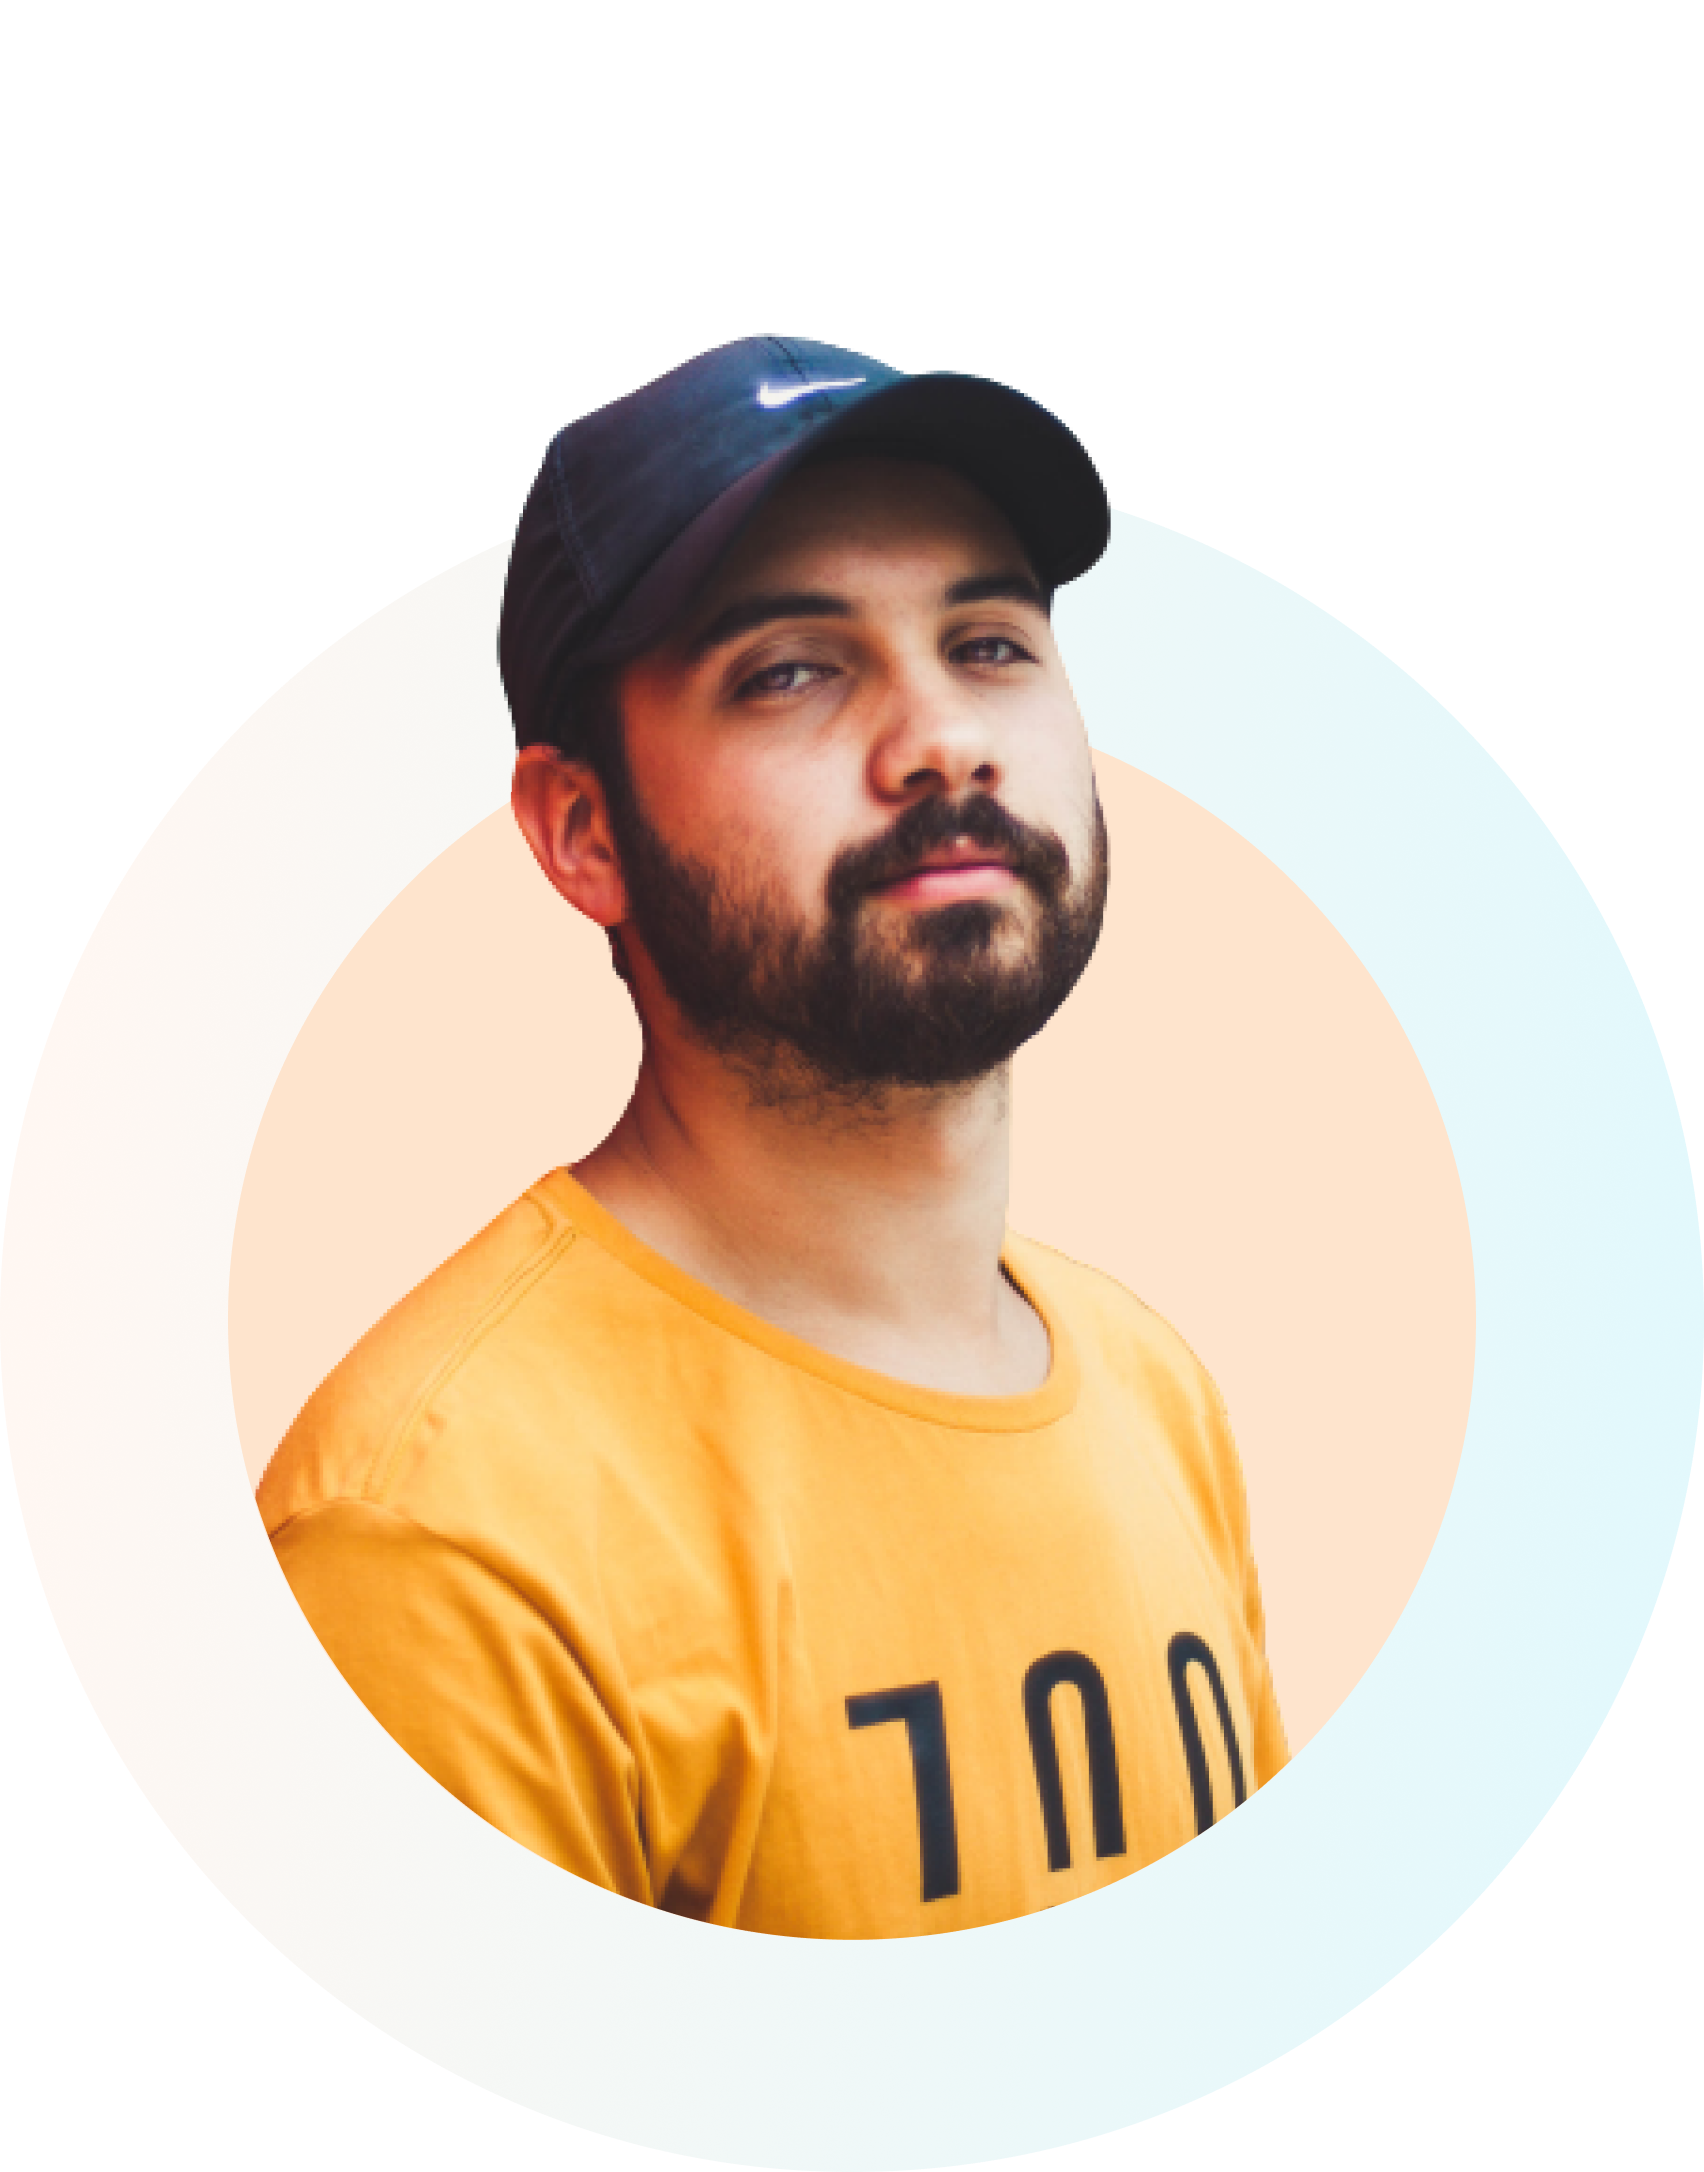
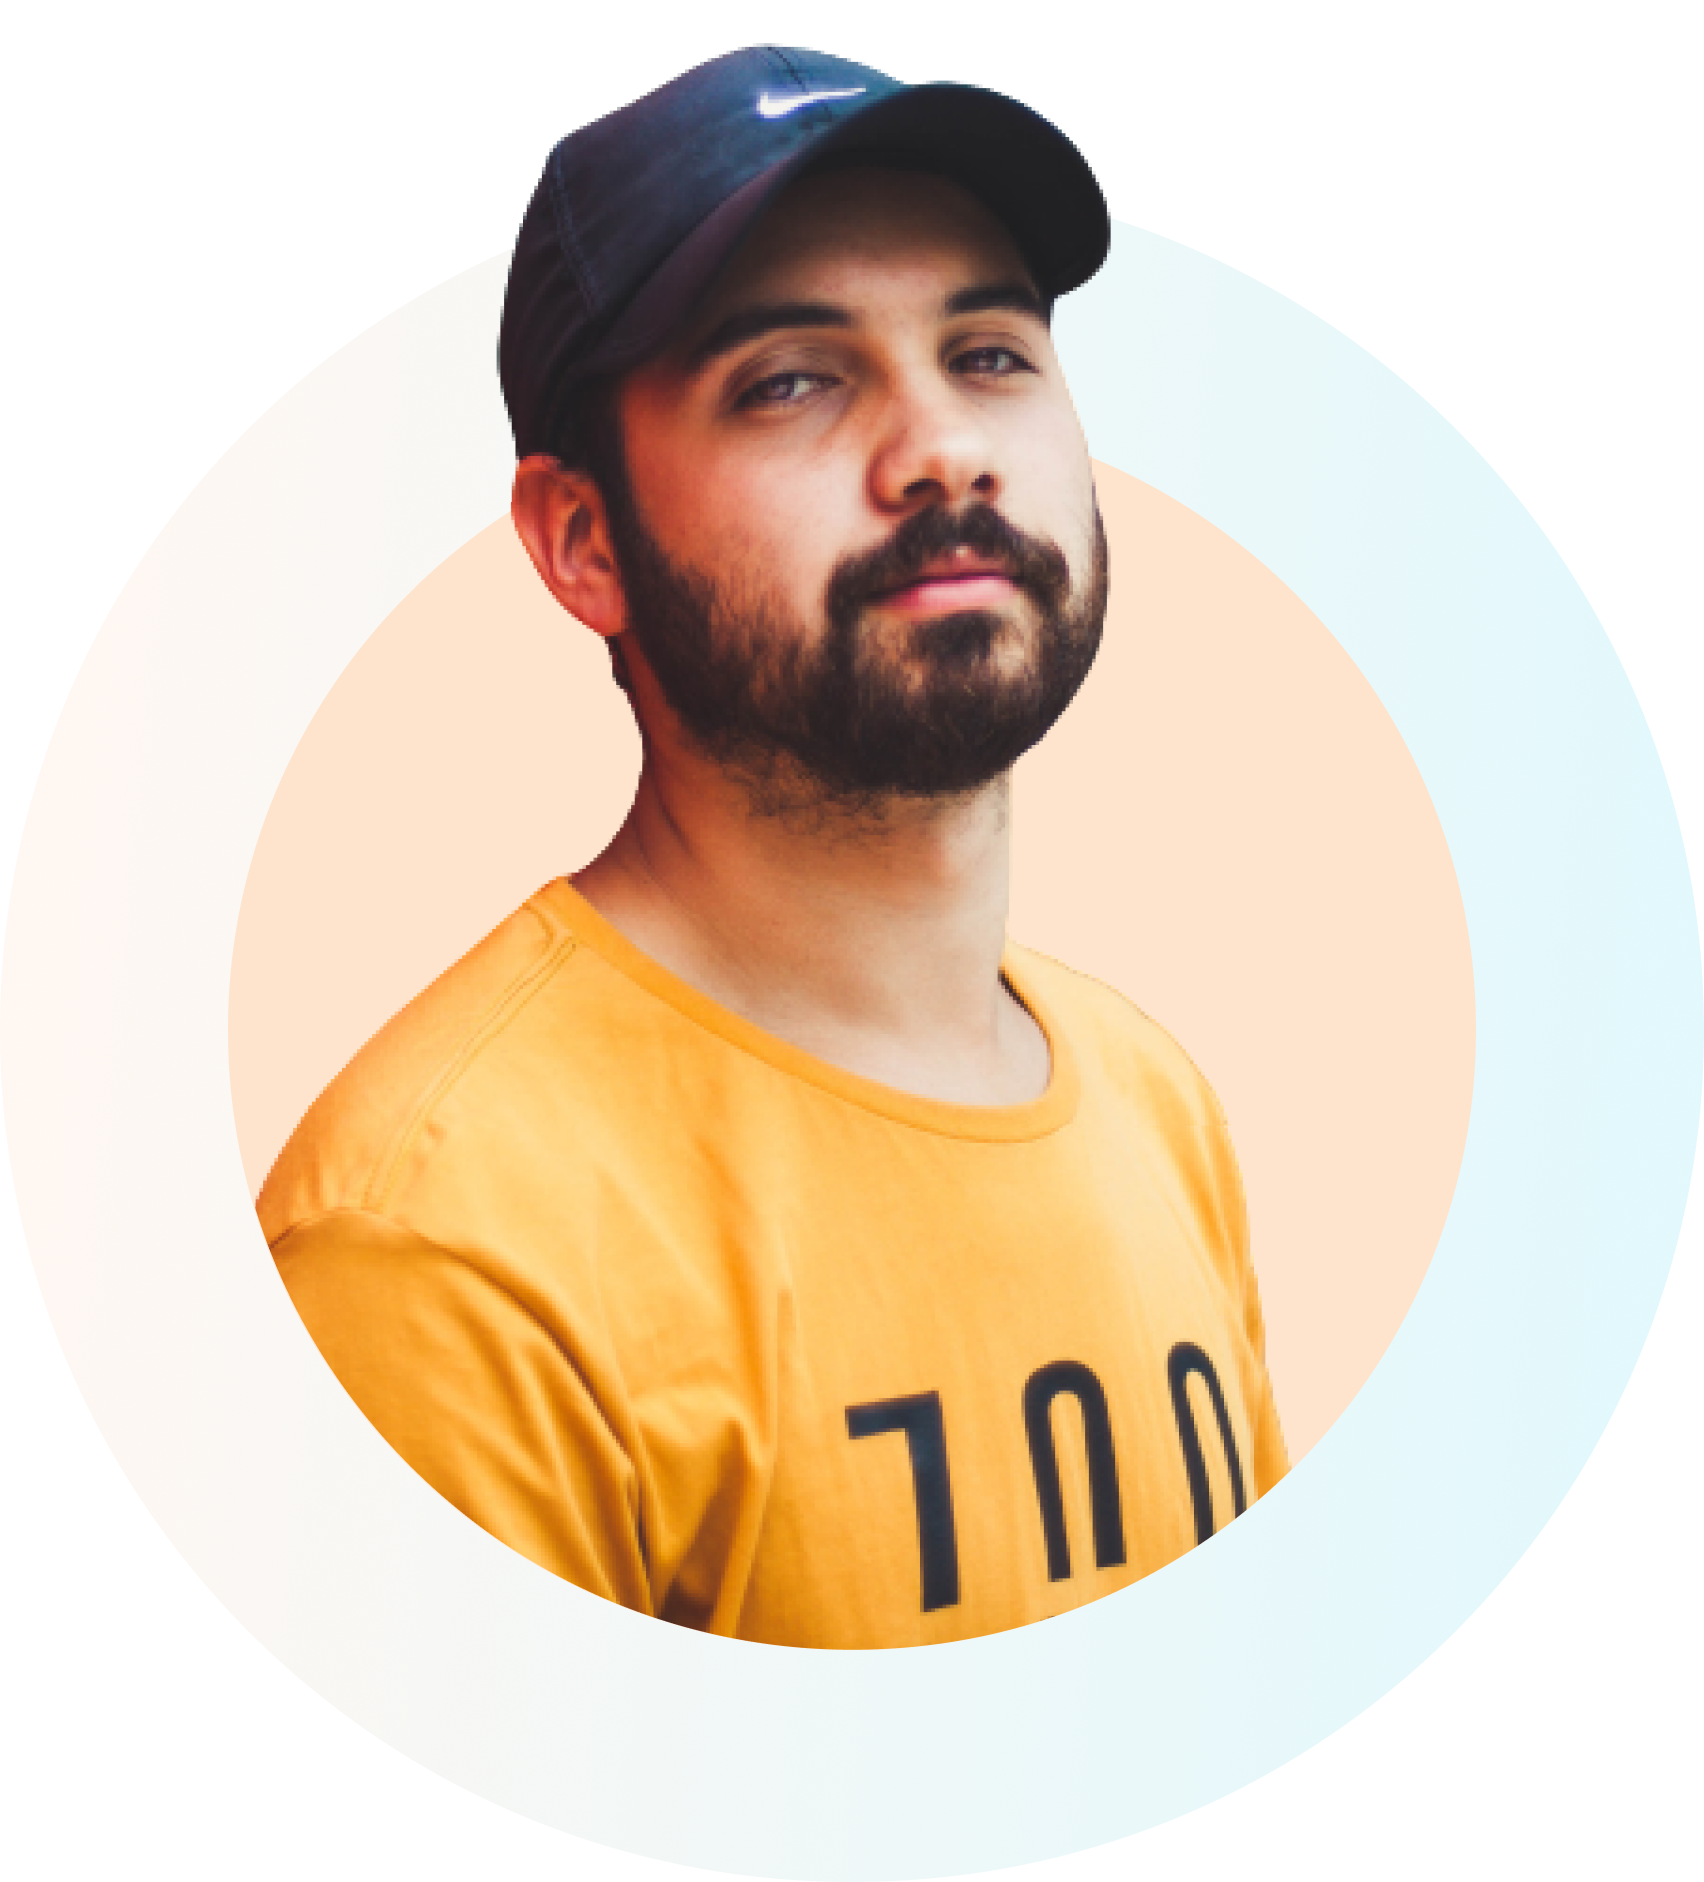
Updated laptop, tablet & mobile devices responsive css styles

diff --git a/assets/styles/responsive.css b/assets/styles/responsive.css
@@ -13,6 +13,53 @@
     padding-left: 20px;
     padding-right: 20px;
   }
+  .banner-img {
+    grid-column: 9 / 13;
+  }
+  .banner-text {
+    grid-column: 1 / 9;
+  }
+  .banner-text h2 {
+    font-size: 2.75rem;
+  }
+  .section-title .title {
+    font-size: 2rem;
+  }
+  .card-item {
+    padding: 15px;
+    gap: 12px;
+  }
+  #featured-container::after {
+    top: -5%;
+    left: 80%;
+  }
+  .featured-content {
+    row-gap: 55px;
+  }
+  .featured-text h3 {
+    font-size: 1.75rem;
+  }
+  .featured-img:nth-child(1) {
+    grid-column: 1 / 5;
+  }
+  .featured-img:nth-child(4) {
+    grid-column: 9 / 13;
+  }
+  .featured-img:nth-child(1)::before {
+    left: 25% !important;
+    top: -15% !important;
+    height: 200px;
+    width: 200px;
+  }
+  .featured-img:nth-child(4)::before {
+    left: 25%;
+    top: 65%;
+    height: 200px;
+    width: 200px;
+  }
+  .project-text h2 {
+    font-size: 2rem;
+  }
 }
 /* Tablet Layout: 768px. */
 @media only screen and (min-width: 768px) and (max-width: 992px) {
@@ -21,6 +68,47 @@
     padding-left: 20px;
     padding-right: 20px;
   }
+  .banner-img {
+    grid-column: 9 / 13;
+  }
+  .banner-text {
+    grid-column: 1 / 9;
+  }
+  .banner-text h2 {
+    font-size: 2.75rem;
+  }
+  .section-title .title {
+    font-size: 2rem;
+  }
+  .card-item {
+    padding: 15px;
+    gap: 12px;
+  }
+  #featured-container::after {
+    top: -5%;
+    left: 80%;
+  }
+  .featured-content {
+    row-gap: 55px;
+  }
+  .featured-text h3 {
+    font-size: 1.75rem;
+  }
+  .featured-img:nth-child(1)::before {
+    left: 15% !important;
+    top: -20% !important;
+    height: 200px;
+    width: 200px;
+  }
+  .featured-img:nth-child(4)::before {
+    left: 16%;
+    top: 55%;
+    height: 200px;
+    width: 200px;
+  }
+  .project-text h2 {
+    font-size: 2rem;
+  }
 }
 /* Wide Mobile Layout: 576px. */
 @media only screen and (min-width: 576px) and (max-width: 767px) {
@@ -28,6 +116,99 @@
     width: 100%;
     padding-left: 20px;
     padding-right: 20px;
+  }
+  .section-padding {
+    padding-top: 40px;
+    padding-bottom: 40px;
+  }
+  .section-title .title {
+    font-size: 1.6rem;
+  }
+  .banner-container {
+    row-gap: 32px;
+  }
+  .banner-text {
+    grid-column: span 12;
+    grid-row: 2 / 3;
+    text-align: center;
+  }
+  .banner-text h2 {
+    font-size: 2.5rem;
+  }
+  .banner-text p {
+    font-size: 1rem;
+  }
+  .banner-img {
+    grid-column: span 12;
+    grid-row: 1 / 2;
+  }
+  .card-item {
+    grid-column: span 12;
+    text-align: center;
+  }
+  .featured-content {
+    gap: 32px;
+  }
+  .featured-img:nth-child(1) {
+    grid-column: span 12;
+    grid-row: 1 / 2;
+  }
+  .featured-text:nth-child(2) {
+    grid-column: span 12;
+    grid-row: 2 / 3;
+  }
+  .featured-text:nth-child(3) {
+    grid-column: span 12;
+    grid-row: 4 / 5;
+  }
+  .featured-img:nth-child(4) {
+    grid-column: span 12;
+    grid-row: 3 / 4;
+  }
+  .featured-img:nth-child(1)::before,
+  .featured-img:nth-child(4)::before {
+    left: 42% !important;
+    top: 65% !important;
+    height: 200px;
+    width: 200px;
+  }
+  .featured-text h3 {
+    font-size: 1.7rem;
+  }
+  #featured-container .section-padding {
+    padding-bottom: 0 !important;
+  }
+  #featured-container::after {
+    top: -2%;
+    left: 60%;
+  }
+  #featured-container::before {
+    top: 19%;
+  }
+  .project-content {
+    padding: 0;
+  }
+  .project-img {
+    grid-column: span 12;
+  }
+  .project-img img {
+    width: 70%;
+  }
+  .project-img::before {
+    left: 13%;
+  }
+  .inner-img::before {
+    left: 70%;
+  }
+  .inner-img::after {
+    left: 18%;
+  }
+  .project-text {
+    grid-column: span 12;
+    text-align: center;
+  }
+  .project-text h2 {
+    font-size: 2rem;
   }
 }
 /* Mobile Layout: 320px. */
@@ -64,6 +245,7 @@
   }
   .card-item {
     grid-column: span 12;
+    text-align: center;
   }
   .featured-content {
     gap: 32px;

diff --git a/index.html b/index.html
@@ -19,7 +19,7 @@
   <body>
     <!-- header section -->
     <header id="header-banner-container">
-      <section class="container section-padding pt-0">
+      <section class="container section-padding">
         <div class="banner-container grid">
           <div class="banner-text flex flex-dir">
             <h2>Stay Focused on <span class="highlight">Mission 2022</span></h2>
@@ -33,7 +33,7 @@
             <p>Scroll down to explore more about us</p>
           </div>
           <div class="banner-img">
-            <img src="assets/images/person/person-0.png" alt="" />
+            <img src="assets/images/person/person-2.png" alt="" />
           </div>
         </div>
       </section>

diff --git a/assets/styles/styles.css b/assets/styles/styles.css
@@ -150,7 +150,6 @@ img.img-absolute {
 }
 .banner-img {
   grid-column: 8 / 12;
-  position: relative;
 }
 .banner-text h2 {
   font-family: var(--font-special);
@@ -166,21 +165,7 @@ img.img-absolute {
   font-weight: 400;
   line-height: 1.5;
 }
-.banner-img::before {
-  content: "";
-  background-image: url(../images/shapes/shape-4.png);
-  background-repeat: no-repeat;
-  background-position: center;
-  background-size: contain;
-  position: absolute;
-  height: auto;
-  width: auto;
-  bottom: 0;
-  left: 0;
-  right: 0;
-  top: 20%;
-  z-index: -1;
-}
+
 /* mission cards styles */
 
 .card-item {
